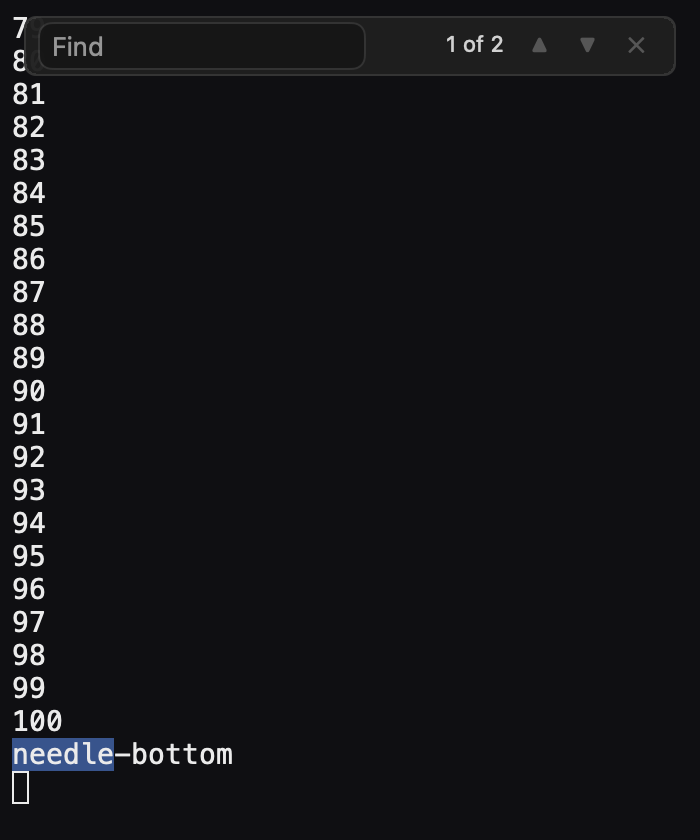
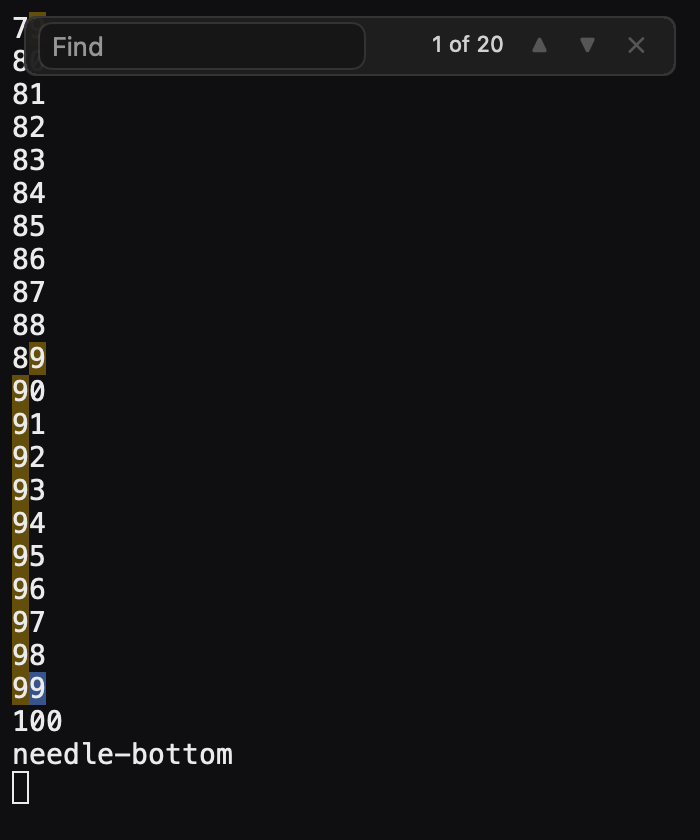
Find tints every match in view (the current one stays the selection); docs updated after the owner's two bug reports

Changed region(s): [[0.0, 0.4024, 0.18, 0.9286], [0.6, 0.031, 0.72, 0.0619], [0.03, 0.0, 0.06, 0.031]]

diff --git a/macos/Sources/Harf/main.swift b/macos/Sources/Harf/main.swift
@@ -665,7 +665,7 @@ func selfTest() -> Never {
         let third = wc.allPanes[2]
         if let dir = ProcessInfo.processInfo.environment["HARF_SELFTEST_PNG_DIR"] {   // pictures for a human, drawn offscreen
             first.showFind()
-            first.findChanged("needle")
+            first.findChanged("9")   // many matches in view: the number rows 89 to 99
             _ = pump(0.5) { false }
             func shot(_ v: NSView, _ name: String) {
                 v.layoutSubtreeIfNeeded()

diff --git a/ARCHITECTURE.md b/ARCHITECTURE.md
@@ -57,7 +57,8 @@ PTY (child shell)
 | 2026-11-14 | Phase 5 done-when checked by the owner: `claude` and `codex` run by hand in the real app work well (no details reported). Brief section 5 items still unbuilt: OSC 8 click, OSC 52, OSC 9/777, kitty key-release events. |
 | 2026-11-14 | Phase 5 leftovers (branch `phase5-osc`): OSC 52 writes reach the system clipboard for the standard clipboard only, with a policy (`clipboard_write`), a 1 MiB cap and a **gate: only while the pane the program runs in has the keyboard** (paste-jacking: a program in a background window, tab or pane must not replace what the user copied); reads are never answered. OSC 9/777 notifications arrive sanitized by the core (controls, bidi overrides and separators dropped, length capped) and are shown through `UNUserNotificationCenter` when the pane is not the one in front (`notifications = unfocused/always/off`). Command-click opens OSC 8 links with http, https or mailto only. A key release is forwarded for keys whose press reached the program (kitty flag 2). |
 | 2026-11-14 | Configuration (branch `config`, `src/config.zig`): a plain `key = value` file at `$XDG_CONFIG_HOME/harf/config` or `~/.config/harf/config`, themes as files in `themes/`, parsed in Zig with warnings instead of failures, read through `harf_config_*`. Hot reload by watching the directory and files with dispatch sources (events, no timers). Themes `dark` (the old look, the default) and `light`, `theme = dark:A, light:B` follows the system appearance and answers `CSI ? 996 n` and mode 2031. Font family and size (a non-monospaced family is refused so the grid cannot break). Key bindings with `unbind` and `send:`; the Swift view runs a binding before the menu and before the program sees the key, except while a text field has the keyboard. Cmd+K clears screen and scrollback and types Ctrl+L (nothing on the alternate screen). |
-| 2026-11-14 | Shell (branch `shell`): tabs are native AppKit window tabs (one window per tab, `addTabbedWindow`); splits are a tree of `NSSplitView`s with a `TerminalPane` per leaf; each pane has its own session and painter. New windows, tabs and panes start in the focused shell's working directory (`proc_pidinfo`, `harf_term_new_in`). Find uses libghostty's search (scrollback and both screens, ASCII case-insensitive), selects the current match through the terminal's own selection, and has a find bar that fits narrow panes. Owner checklist: `docs/phase6-manual-check.md`. Not built: session restore, highlighting every match, Option-as-Meta. |
+| 2026-11-14 | Shell (branch `shell`): tabs are native AppKit window tabs (one window per tab, `addTabbedWindow`); splits are a tree of `NSSplitView`s with a `TerminalPane` per leaf; each pane has its own session and painter. New windows, tabs and panes start in the focused shell's working directory (`proc_pidinfo`, `harf_term_new_in`). Find uses libghostty's search (scrollback and both screens, ASCII case-insensitive), selects the current match through the terminal's own selection, and has a find bar that fits narrow panes. Owner checklist: `docs/phase6-manual-check.md`. Every match in view is tinted (`Cell.match`, refreshed from the search on each update while a find is open) and the current one is the selection. Not built: session restore, Option-as-Meta. |
+| 2026-11-14 | Two bugs the owner found by using the app, both mine. (1) A key binding ran on whichever terminal view AppKit offered the key to first, so with splits Cmd+V pasted into the first pane, not the focused one; a view now acts only when it is the first responder (`runBinding`), with a self-test of two panes. (2) Find showed only the current match; every match in view is now tinted. Lesson: the app-level shortcut path and multi-pane focus had no end-to-end test; they do now (self-test sections 2k, 2l). |
 
 ## Open checks (from the brief's section 9)
 

diff --git a/docs/phase6-manual-check.md b/docs/phase6-manual-check.md
@@ -3,16 +3,15 @@
 Build and open: `macos/build-app.sh && open macos/.build/Harf.app`. Everything below has tests or a self-test behind it
 (`zig build test`, `Harf --selftest`), but these are the things only a person at the keyboard can judge. Tell me what is off.
 
-**What I could not look at:** a real on-screen window with splits. Offscreen, each pane draws correctly on its own
-(`docs/shell/`), but rendering a whole split window through `cacheDisplay` showed the nested panes upside down, and a live
-capture was refused. I believe that is the capture path, not the app. If a split pane looks flipped on screen, that is the bug.
+**Splits on screen:** checked by the owner from a screenshot (2026-11-14): splits and tabs draw upright. The upside-down
+panes I saw earlier came from rendering the whole window offscreen with `cacheDisplay`, not from the app.
 
 ## Shell
 - [ ] Cmd+N opens a new window (offset from the first); Cmd+T opens a tab in the current window. Cmd+Shift+[ and ] switch tabs, Cmd+1 to 9 jump to one.
 - [ ] Cmd+D splits side by side, Cmd+Shift+D splits below. The new shell starts in the directory of the one you split. Splits nest. Cmd+[ and Cmd+] move between panes; clicking a pane focuses it.
 - [ ] Cmd+W closes a pane (its neighbour takes the space); the last pane closes the tab or window. `exit` in a pane closes it.
 - [ ] Cmd+K empties the screen and scrollback and redraws your prompt at the top. In vim (alternate screen) it does nothing.
-- [ ] Cmd+F opens the find bar in the top right of the pane; typing finds and jumps to the newest match, Enter goes to older ones, Shift+Enter to newer, Esc closes. "n of m" is shown, the match is highlighted and Cmd+C copies it. It finds text in scrollback.
+- [ ] Cmd+F opens the find bar in the top right of the pane; typing finds and jumps to the newest match, Enter goes to older ones, Shift+Enter to newer, Esc closes. "n of m" is shown. Every match in view is tinted amber and the current one is blue (the selection, so Cmd+C copies it). It finds text in scrollback. It starts at the newest match, at the bottom.
 - [ ] Open the find bar in a narrow split pane: nothing is cut off.
 - [ ] Title and tab name follow the focused pane. Tab drag and "Merge All Windows" from the Window menu work.
 
@@ -35,4 +34,4 @@ capture was refused. I believe that is the capture path, not the app. If a split
 - Reading the clipboard from a program (OSC 52 `?`) is never answered.
 - No Option-as-Meta setting; the built-in Option/Cmd editing keys can be overridden with `keybind ... send:`.
 - Splits and tabs are not restored after a restart (session restore is not built).
-- Find is case-insensitive for ASCII only (the library's rule), and highlights the current match, not every match.
+- Find is case-insensitive for ASCII only (the library's rule).
